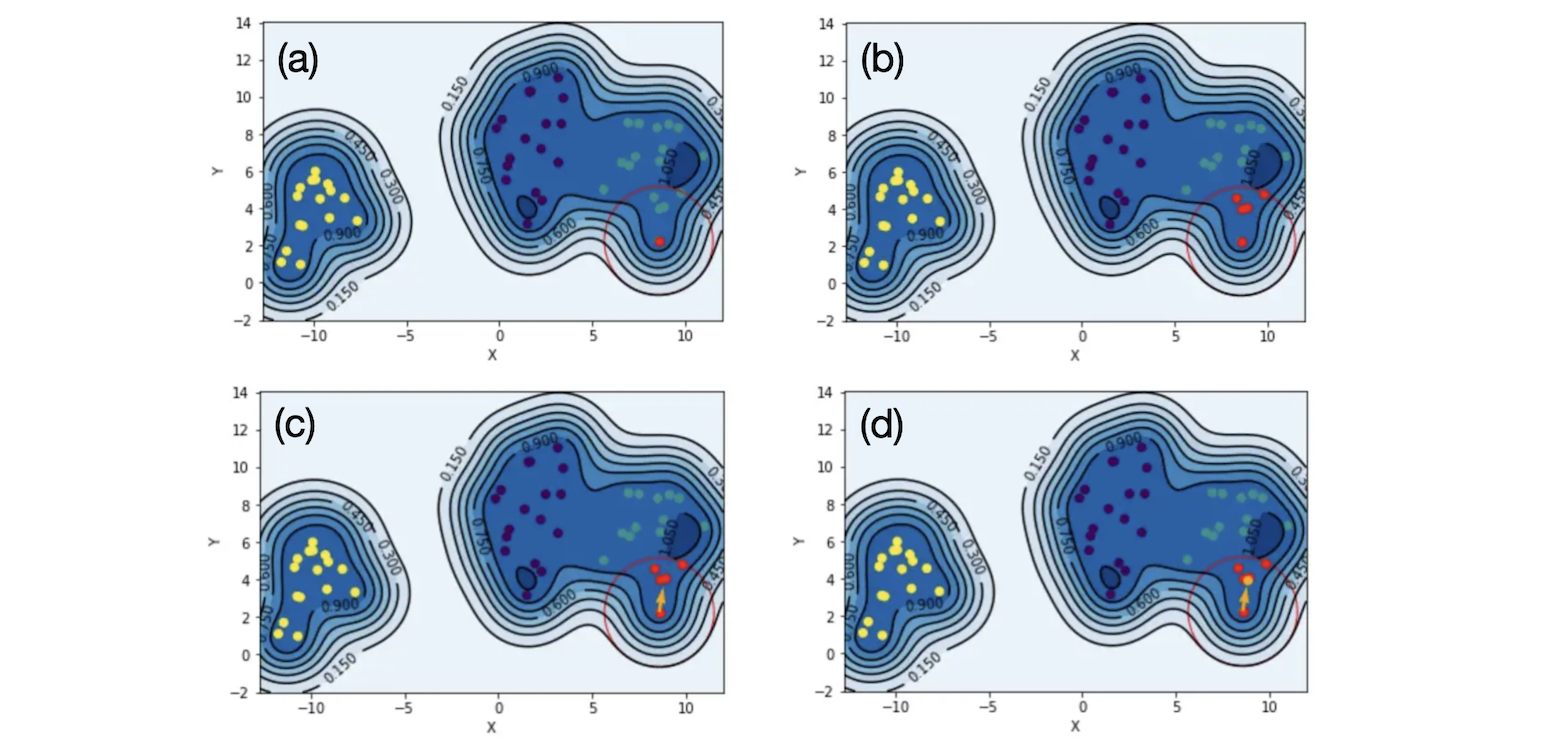
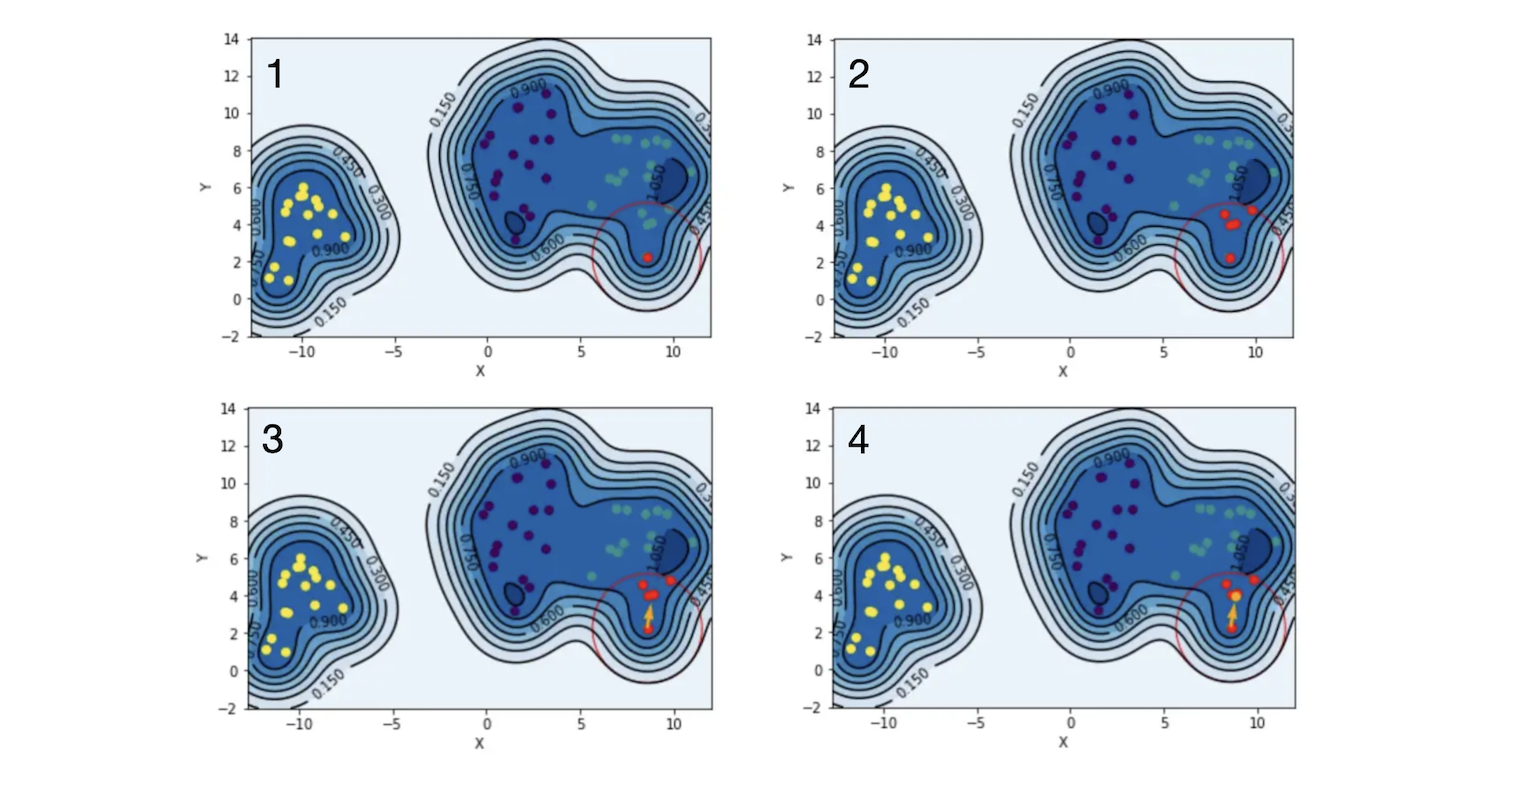
meanshift

diff --git a/Clustering/1D_clustering/README.md b/Clustering/1D_clustering/README.md
@@ -154,6 +154,13 @@ The process is described as below (c.f. [[Yuki Liu]][Clustering method 2 - Mean 
 
 ![](images/meanshift_process.png)
 
+1. Assume the red dot is a data point which has not been identified clustering label. Now set it as centroid. 從未被分群的資料點中選擇一起始點做為中心。
+2. Assign the data points within a radius of the centroid as the same cluster
+3. Compute the vector for each data point against the centroid. Find the mean shift vector by the vectors in average.
+4. Update the centroid by the original location with the mean shidt vector: center -> center + mean shift.
+5. repeat step 1-4 until the centroid stops to move. In this case, it reaches the local probability density. 若此群的中心點已被歸於先前所分的群中，便將兩群合併為同一群。
+6. 重複以上步驟直到所有點都被歸類為止。
+
 ```Python
 from sklearn.cluster import MeanShift, estimate_bandwidth
 
